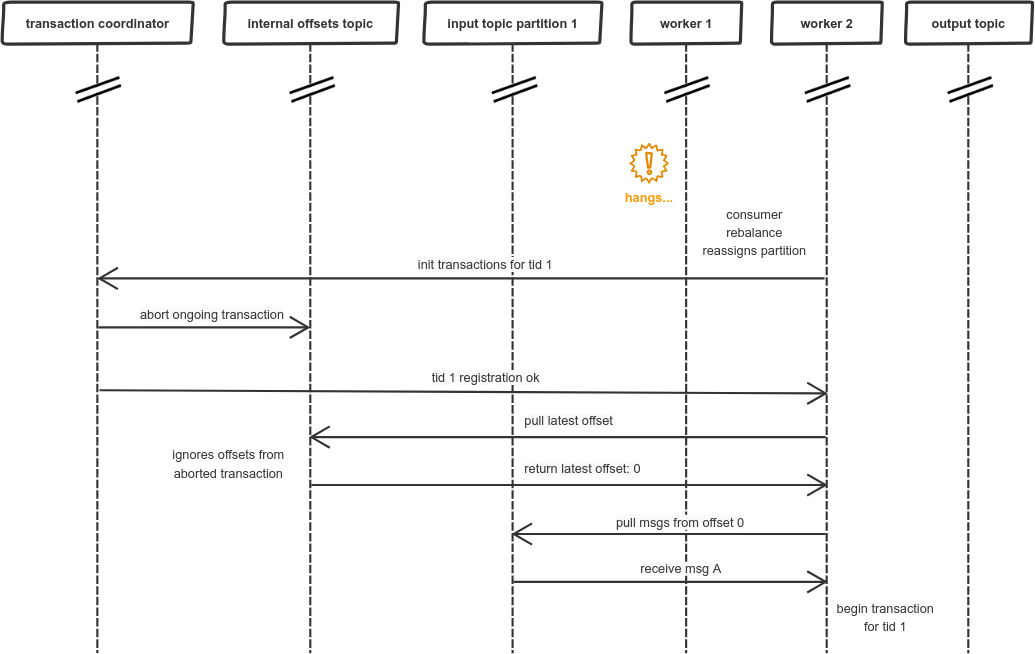
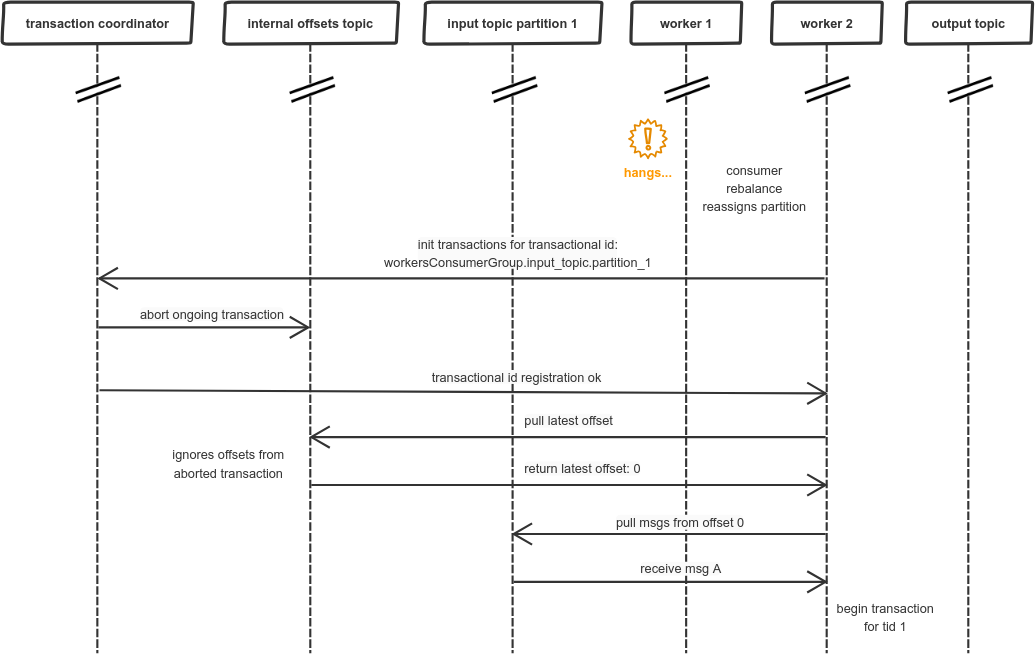
[2019-04-22 20:21:30 UTC] new release

diff --git a/posts/2019-04-13-kafka-transactions.html b/posts/2019-04-13-kafka-transactions.html
@@ -4,21 +4,23 @@
         <meta charset="utf-8">
         <meta http-equiv="x-ua-compatible" content="ie=edge">
         <meta name="viewport" content="width=device-width, initial-scale=1">
-        <title>Yet Another Programmer's Blog - Kafka transactions - the tricky bits</title>
+        <title>Tomasz Guz - Kafka transactions - the tricky bits</title>
         <link rel="stylesheet" href="../css/default.css" />
         <link rel="stylesheet" href="../css/syntax.css" />
     </head>
     <body>
         <header>
             <div class="wrapper">
-                <div class="logo">
-                    <a href="../">Yet Another Programmer's Blog</a>
+                <div class="topbar">
+                    <div class="logo">
+                        <a href="../">Tomasz Guz</a>
+                    </div>
+                    <nav>
+                        <a href="../">Home</a>
+                        <a href="https://github.com/tgrez">GitHub</a>
+                        <a href="https://www.linkedin.com/in/tomasz-guz-333088109/">LinkedIn</a>
+                    </nav>
                 </div>
-                <nav>
-                    <a href="../">Home</a>
-                    <a href="../about.html">About</a>
-                    <a href="../archive.html">Archive</a>
-                </nav>
             </div>
         </header>
 
@@ -42,26 +44,27 @@
 <blockquote>
 <p>2.1.11 Transactional Id When a transaction is started by the listener container, the transactional.id is now the transactionIdPrefix appended with &lt;group.id&gt;.&lt;topic&gt;.&lt;partition&gt;. This is to allow proper fencing of zombies as described here.</p>
 </blockquote>
-<p>So, what I could understand is that I should use separate transactional ids for each partition consumed, to enable proper zombie fencing and prevent duplicate messages. Next point will present the scenario, where this is necessary.</p>
+<p>So, what I could understand is that I should use separate transactional ids for each partition consumed to enable proper zombie fencing and prevent duplicate messages. Next point will present the scenario where this is necessary.</p>
 <p>The assumption is that the reader already knows about Kafka basics (eg partitions, consumer groups) and has read about Kafka transactions on Confluent’s blog. Watching this video is also recommended: <a href="https://www.confluent.io/online-talk/introducing-exactly-once-semantics-in-apache-kafka/">Introducing exactly once semantics in Apache Kafka</a>.</p>
 <h2 id="failure-of-transactions-caused-by-invalid-usage">2. Failure of transactions caused by invalid usage</h2>
 <p>Here is the setup in which this fault might occur:</p>
-<p><img src="../images/2.0_diagram_v2.png" /></p>
-<p>In this case, following scenario will cause problems, we start with standard initialization of transactions and pulling the message for latest offset:</p>
+<p><img src="../images/2.0_diagram.png" /></p>
+<p>In our scenario, there are 2 workers processing messages from input topic in parallel. Let’s see how incoming message (I’ll name it msg A) could be incorrectly processed and produce duplicated output message (I’ll name it msg B). We start with standard initialization of transactions and pulling the message for the latest offset:</p>
 <p><img src="../images/2.1_pull_msg.png" /></p>
-<p>Then, we proceed to processing the message. We start a transaction, to send the output message atomically with updating the offset, first sending the offset:</p>
-<p><img src="../images/2.2_start_transaction_1.png" /></p>
-<p>Just after sending the offset, our worker hangs, e.g. due to long GC pause, and then the consumer group coordinator reassigns the partition to another worker:</p>
+<p>Then, we proceed to processing the message. We start a transaction to send the output message atomically with updating the offset, so first we’re sending the offset:</p>
+<p><img src="../images/2.2_start_transaction_tid1.png" /></p>
+<p>Just after sending the offset our worker hangs. There could be many reasons, like network issues, but let’s assume it is due to long GC pause. Then the consumer group coordinator reassigns the partition to another worker:</p>
 <p><img src="../images/2.3_rebalance.png" /></p>
-<p>As a result, another worker goes through similar initialization process, as previous worker. The problem is that previous transaction is not yet committed, so the offset update sent by worker 1 is ignored. And now, worker 2 is starting its own transaction:</p>
-<p><img src="../images/2.4_start_transaction_2.png" /></p>
+<p>As a result, another worker goes through similar initialization process as previous worker. The problem is that previous transaction is not yet committed, so the offset update sent by worker 1 is ignored. And now, worker 2 is starting its own transaction (let’s asssume for simplicity that it didn’t receive any messages before):</p>
+<p><img src="../images/2.4_start_transaction_tid2.png" /></p>
 <p>Then, worker 2 sends processing results to the output topic and commits its transaction:</p>
 <p><img src="../images/2.5_wakes_up.png" /></p>
-<p>When worker 2 is already done, worker 1 wakes up from its long GC pause, unaware of what happened in the meantime, this “nap” seemed like just few milliseconds… so it continues with its own transaction and sends the output message:</p>
+<p>When worker 2 is already done worker 1 wakes up from its long GC pause, unaware of what happened in the meantime. This “nap” seemed like just few milliseconds… so it continues with its own transaction and sends the output message:</p>
 <p><img src="../images/2.6_duplicate_msg.png" /></p>
 <p>After worker 1 commits the transaction there is a duplicated message in the output topic, so our exactly-once guarantee does not hold.</p>
 <h2 id="why-kafka-transactions-didnt-work-correctly-in-this-situation">3. Why Kafka transactions didn’t work correctly in this situation?</h2>
-<p>At the moment when worker 2 is assigned the input partition from worker 1 and initializes transaction, the Kafka transaction for worker 2 should be aborted. Overall, this is how it should look like inside the Kafka’s topic:</p>
+<p>At the moment when worker 2 is assigned the input partition from worker 1 and initializes transaction, the Kafka transaction for worker 1 should be aborted. The mechanism used for that in Kafka is called zombie fencing, which is described in the <a href="https://www.confluent.io/blog/transactions-apache-kafka/">Confluent’s article on Kafka transactions</a>.</p>
+<p>Let’s see on simplified example how zombie fencing works in practice. Overall, this is how it should look like inside the Kafka’s topic:</p>
 <pre><code>$ ./bin/kafka-dump-log.sh --files /tmp/kafka-logs/topic-test-0/00000000000000000000.log \
 &gt; --print-data-log
 Dumping /tmp/kafka-logs/topic-test-0/00000000000000000000.log
@@ -90,7 +93,7 @@ offset: 3 ... producerId: 0 producerEpoch: 7 ... endTxnMarker: COMMIT coordinato
 <a class="sourceLine" id="cb2-17" title="17">producer2.<span class="fu">send</span>(<span class="kw">new</span> ProducerRecord&lt;&gt;(<span class="st">&quot;topic-test&quot;</span>, <span class="st">&quot;thisIsMessageKey&quot;</span>, <span class="st">&quot;thisIsMessageValue2&quot;</span>)).<span class="fu">get</span>();</a>
 <a class="sourceLine" id="cb2-18" title="18"></a>
 <a class="sourceLine" id="cb2-19" title="19">producer2.<span class="fu">commitTransaction</span>();</a></code></pre></div>
-<p>If, however, we change the producer’s transactional id:</p>
+<p>In such scenario, second producer tries to initiate transactions for the same transactional id. This results in ABORT marker written directly into the partition, together with data. If, however, we change the transactional id for second producer:</p>
 <div class="sourceCode" id="cb3"><pre class="sourceCode java"><code class="sourceCode java"><a class="sourceLine" id="cb3-1" title="1">...</a>
 <a class="sourceLine" id="cb3-2" title="2">configs.<span class="fu">put</span>(ProducerConfig.<span class="fu">TRANSACTIONAL_ID_CONFIG</span>, <span class="st">&quot;differentValue&quot;</span>);</a>
 <a class="sourceLine" id="cb3-3" title="3">KafkaProducer&lt;<span class="bu">String</span>, <span class="bu">String</span>&gt; producer2 = <span class="kw">new</span> KafkaProducer&lt;&gt;(configs);</a>
@@ -112,19 +115,20 @@ offset: 0 position: 0 CreateTime: 1555164281457 isvalid: true keysize: 16 values
 offset: 1 position: 103 CreateTime: 1555164281695 isvalid: true keysize: 16 valuesize: 19 magic: 2 compresscodec: NONE producerId: 1 producerEpoch: 0 sequence: 0 isTransactional: true headerKeys: [] key: thisIsMessageKey payload: thisIsMessageValue2
 offset: 2 position: 206 CreateTime: 1555164281755 isvalid: true keysize: 4 valuesize: 6 magic: 2 compresscodec: NONE producerId: 1 producerEpoch: 0 sequence: -1 isTransactional: true headerKeys: [] endTxnMarker: COMMIT coordinatorEpoch: 0
 -->
-<p>Which looks similar to our scenario with 2 parallel workers. What happens above is a failure of the zombie fencing mechanism, which is described in the <a href="https://www.confluent.io/blog/transactions-apache-kafka/">Confluent’s article on Kafka transactions</a>.</p>
+<p>There is no ABORT marker, so first producer could still commit its transaction. This situation is similar to our scenario with 2 parallel workers. There was also a transaction in progress, which should be aborted, but wasn’t. Does this mean we should use the same transactional id for both workers? Not quite.</p>
 <h2 id="fixing-kafka-zombie-fencing-for-parallel-processing">4. Fixing Kafka zombie fencing for parallel processing</h2>
-<p>The solution to this problem is already mentioned in the docs and articles:</p>
+<p>To ensure proper functioning of zombie fencing in our original scenario we should make sure that msg A “is processed” by the same transactional id, no matter on which worker this is actually happening. The solution to this problem is already mentioned in the docs and articles:</p>
 <blockquote>
 <p>Practically, one would either have to store the mapping between input partitions and transactional.ids in an external store, or have some static encoding of it.</p>
 </blockquote>
-<p>To avoid handling an external store, we will use a static encoding the same as in spring-kafka:</p>
+<p>To avoid handling an external store we will use a static encoding similarly as in spring-kafka:</p>
 <blockquote>
 <p>the transactional.id is now the transactionIdPrefix appended with &lt;group.id&gt;.&lt;topic&gt;.&lt;partition&gt;.</p>
 </blockquote>
-<p>The drawback is that we will require <strong>separate transactional producer for each partition</strong>, but now we will be able to handle the last failure scenario correctly. This can be observed at the moment, when worker 2 initiates its transactional producer:</p>
+<p>The drawback is that it will require <strong>separate transactional producer for each partition</strong>, but now we will be able to handle the last failure scenario correctly. Separate transactional producer means that each single worker should have one producer for each partition it is consuming.</p>
+<p>So, how this would change the flow of messages in our failing scenario? Firstly, worker 1 will be using transactional id: <code>workersConsumerGroup.input_topic.partition_1</code>, which provides static encoding between input partition and transactional id. The actual fix can be observed at the moment when worker 2 initiates its transactional producer:</p>
 <p><img src="../images/4.0_abort.png" /></p>
-<p>And then, when worker 1 wakes up:</p>
+<p>What happend above is very similar to our simplified example from point 3: worker 1 and worker 2 used the same transactional id (as there is now a static encoding between partition and transactional id), so the ongoing transaction is aborted. Later on, we can also notice change when worker 1 wakes up:</p>
 <p><img src="../images/4.1_fenced.png" /></p>
 <p>Which results in receiving this exception within application:</p>
 <pre><code>org.apache.kafka.common.errors.ProducerFencedException: Producer attempted an operation with 
@@ -132,7 +136,8 @@ an old epoch. Either there is a newer producer with the same transactionalId, or
 transaction has been expired by the broker.</code></pre>
 <p>Zombie fencing works properly now, thanks to using the same transactional id.</p>
 <h2 id="summary">5. Summary</h2>
-<p>Handling transactions between producer sessions has its own nuances. One of our decisions, as Kafka clients, is to pick right transactional ids for producer, to enable proper zombie fencing. Hopefully, the example given above makes it clear when should we use separate transactional id for each consumed partition. Only when consumer rebalance can result in assigning partitions to different workers those separate ids should be used.</p>
+<p>Handling transactions between producer sessions has its own nuances. One of our decisions, as Kafka clients, is to pick right transactional ids for producer to enable proper zombie fencing. Hopefully, the example given above makes it clear when should we use separate transactional id for each consumed partition. Only when consumer rebalance can result in assigning partitions to different workers, those separate ids should be used.</p>
+<p><em>Special thanks to Paweł Kubit for proofreading.</em></p>
     </section>
 </article>
 

diff --git a/css/default.css b/css/default.css
@@ -1,1 +1,1 @@
-@import "base.css";@import url(http://fonts.googleapis.com/css?family=Ubuntu);@import url(http://fonts.googleapis.com/css?family=Open+Sans);html{min-height:100%;position:relative}body{color:black;font-size:16px;margin:0px auto 0px auto;text-align:justify}header{margin-bottom:0px;padding:50px;background:linear-gradient(to right,#19111f 0%,#2c1e37 100%)}div.logo a{color:#FFFFFF;font-family:Ubuntu,'Open Sans',sans-serif;font-size:28px;font-weight:bold;text-decoration:none}div.wrapper{max-width:calc(1000px - (30px*2));margin-left:auto;margin-right:auto;padding-left:30px;padding-right:30px}header nav a{color:#d1cddc!important;font-family:'Open Sans',sans-serif;font-size:14px;font-weight:bold;margin-left:12px;text-decoration:none;text-transform:uppercase}header nav a:hover{color:#FFFFFF}main{margin-bottom:5.5rem;display:block}main h1{color:#6e618d;font-size:36px;font-family:'Open Sans',sans-serif}main,main p{color:#333333;font-family:'Open Sans',sans-serif;font-size:15px}main a{color:#428bca;text-decoration:none}footer{color:#999999;font-size:12px;text-align:center;height:4em;background-color:#323232;position:absolute;bottom:0;width:100%;overflow:hidden;padding-top:1em;font-family:'Open Sans',sans-serif}footer a{color:#ffffff;font-weight:bold;text-decoration:none}section.header{color:#555;font-size:14px;font-style:italic}img{display:block;margin-left:auto;margin-right:auto;max-width:100%;padding-top:1em;padding-bottom:1em}blockquote{border-left:5px solid #ccc;background-color:#f5f5f5;margin:1.625em 1.5em 1.5em 1.5em;padding:0.8rem}
+html{min-height:100%;position:relative;overflow-y:scroll}body{color:black;font-size:16px;margin:0px auto 0px auto;text-align:justify}header{padding-top:20px}div.logo a{color:black;font-family:sans-serif;font-size:28px;font-weight:bold;text-decoration:none}div.wrapper{max-width:calc(1000px - (30px*2));margin-left:auto;margin-right:auto;padding-left:30px;padding-right:30px}header div.wrapper{}header div.wrapper div.topbar{border-bottom:1px solid black;display:flex;justify-content:space-between}header nav{display:inline-block;align-self:flex-end}header nav a{color:#a5a5a5;font-family:sans-serif;font-size:20px;font-weight:bold;margin-left:12px;text-decoration:none;text-transform:uppercase}main{margin-bottom:5.5rem;display:block}main h1{font-size:36px;font-family:sans-serif}main,main p{color:#333333;font-family:sans-serif;font-size:15px}main a{color:#428bca;text-decoration:none}footer{color:#999999;font-size:12px;text-align:center;height:4em;position:absolute;bottom:0;width:100%;overflow:hidden;padding-top:1em;font-family:sans-serif}footer a{font-weight:bold;text-decoration:none}section.header{color:#555;font-size:14px;font-style:italic}img{display:block;margin-left:auto;margin-right:auto;max-width:100%;padding-top:1em;padding-bottom:1em}blockquote{display:block;max-width:100%;border-left:5px solid #ccc;background-color:#f5f5f5;margin:1.625em 1.5em 1.5em 1.5em;padding:0.8rem}

diff --git a/index.html b/index.html
@@ -4,32 +4,32 @@
         <meta charset="utf-8">
         <meta http-equiv="x-ua-compatible" content="ie=edge">
         <meta name="viewport" content="width=device-width, initial-scale=1">
-        <title>Yet Another Programmer's Blog - Home</title>
+        <title>Tomasz Guz - Home</title>
         <link rel="stylesheet" href="./css/default.css" />
         <link rel="stylesheet" href="./css/syntax.css" />
     </head>
     <body>
         <header>
             <div class="wrapper">
-                <div class="logo">
-                    <a href="./">Yet Another Programmer's Blog</a>
+                <div class="topbar">
+                    <div class="logo">
+                        <a href="./">Tomasz Guz</a>
+                    </div>
+                    <nav>
+                        <a href="./">Home</a>
+                        <a href="https://github.com/tgrez">GitHub</a>
+                        <a href="https://www.linkedin.com/in/tomasz-guz-333088109/">LinkedIn</a>
+                    </nav>
                 </div>
-                <nav>
-                    <a href="./">Home</a>
-                    <a href="./about.html">About</a>
-                    <a href="./archive.html">Archive</a>
-                </nav>
             </div>
         </header>
 
         <main role="main">
             <div class="wrapper">
                 <h1>Home</h1>
-                <img src="./images/haskell-logo.png" style="float: right; margin: 10px;" />
+                <p>I'm Tomasz, a software developer based in Poland. I enjoy programming and climbing.
 
-<p>A place to share interesting stuff by Tomasz Guz</p>
-
-<p>Below is a list of posts created so far, apparently there is nothing meaningful, but a new blog post about transactions in Kafka is commming soon...</p>
+<p>I do not blog regulary, but here is a list of posts created so far:</p>
 
 <h2>Posts</h2>
 <ul>
@@ -40,8 +40,6 @@
     
 </ul>
 
-
-<p>…or you can find more in the <a href="./archive.html">archives</a>.</p>
 
             </div>
         </main>

diff --git a/archive.html b/archive.html
@@ -4,21 +4,23 @@
         <meta charset="utf-8">
         <meta http-equiv="x-ua-compatible" content="ie=edge">
         <meta name="viewport" content="width=device-width, initial-scale=1">
-        <title>Yet Another Programmer's Blog - Archives</title>
+        <title>Tomasz Guz - Archives</title>
         <link rel="stylesheet" href="./css/default.css" />
         <link rel="stylesheet" href="./css/syntax.css" />
     </head>
     <body>
         <header>
             <div class="wrapper">
-                <div class="logo">
-                    <a href="./">Yet Another Programmer's Blog</a>
+                <div class="topbar">
+                    <div class="logo">
+                        <a href="./">Tomasz Guz</a>
+                    </div>
+                    <nav>
+                        <a href="./">Home</a>
+                        <a href="https://github.com/tgrez">GitHub</a>
+                        <a href="https://www.linkedin.com/in/tomasz-guz-333088109/">LinkedIn</a>
+                    </nav>
                 </div>
-                <nav>
-                    <a href="./">Home</a>
-                    <a href="./about.html">About</a>
-                    <a href="./archive.html">Archive</a>
-                </nav>
             </div>
         </header>
 

diff --git a/about.html b/about.html
@@ -4,21 +4,23 @@
         <meta charset="utf-8">
         <meta http-equiv="x-ua-compatible" content="ie=edge">
         <meta name="viewport" content="width=device-width, initial-scale=1">
-        <title>Yet Another Programmer's Blog - About</title>
+        <title>Tomasz Guz - About</title>
         <link rel="stylesheet" href="./css/default.css" />
         <link rel="stylesheet" href="./css/syntax.css" />
     </head>
     <body>
         <header>
             <div class="wrapper">
-                <div class="logo">
-                    <a href="./">Yet Another Programmer's Blog</a>
+                <div class="topbar">
+                    <div class="logo">
+                        <a href="./">Tomasz Guz</a>
+                    </div>
+                    <nav>
+                        <a href="./">Home</a>
+                        <a href="https://github.com/tgrez">GitHub</a>
+                        <a href="https://www.linkedin.com/in/tomasz-guz-333088109/">LinkedIn</a>
+                    </nav>
                 </div>
-                <nav>
-                    <a href="./">Home</a>
-                    <a href="./about.html">About</a>
-                    <a href="./archive.html">Archive</a>
-                </nav>
             </div>
         </header>
 
